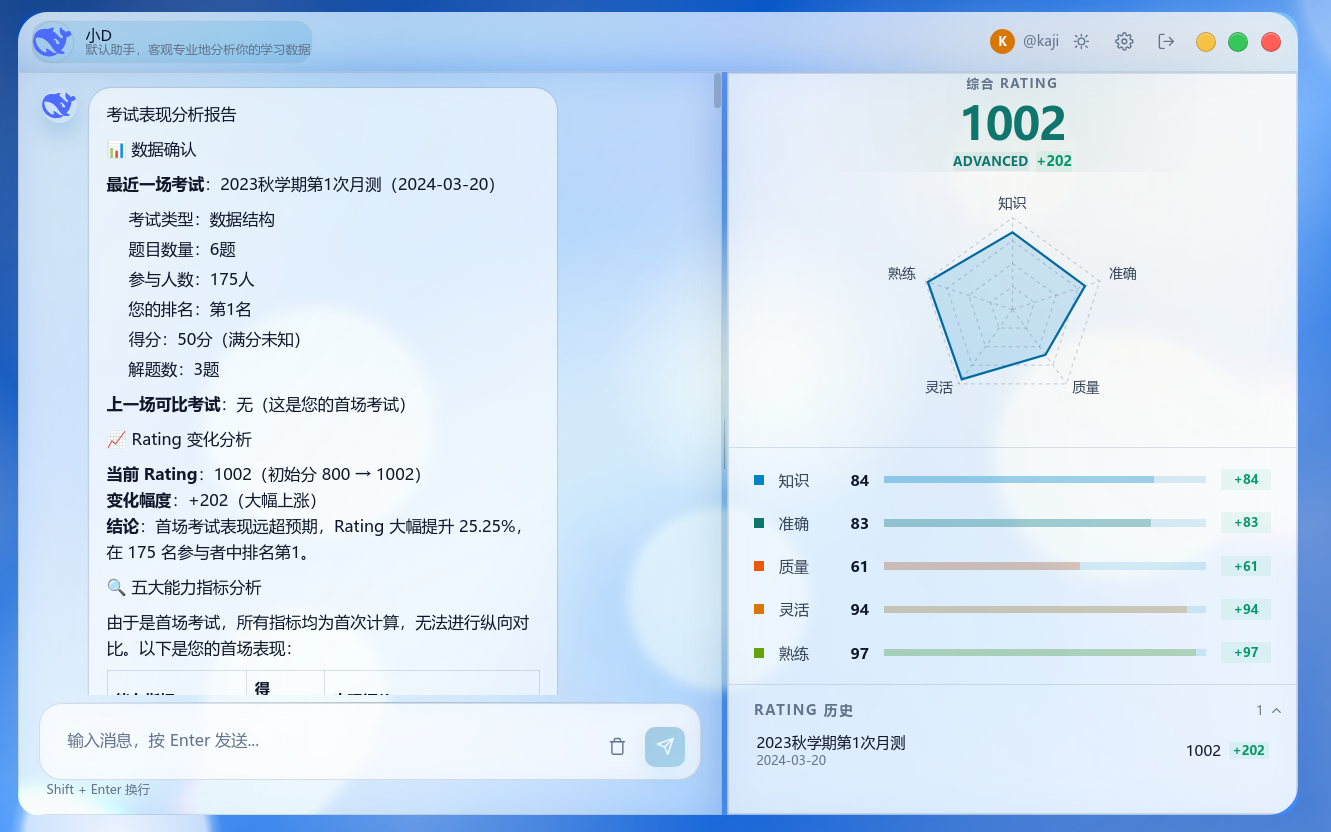
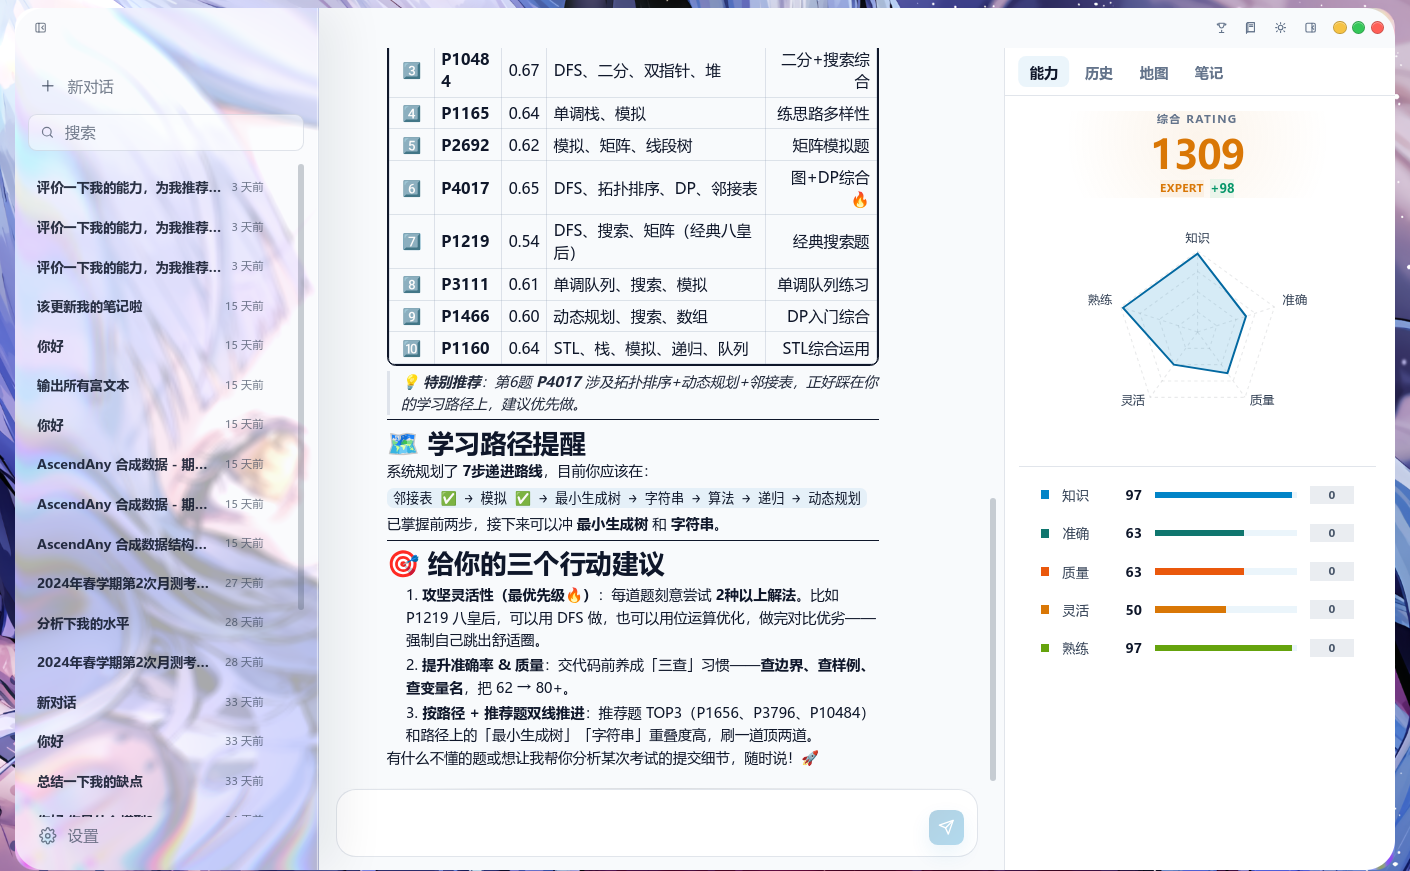
docs: add product README preview

diff --git a/README.product-preview.md b/README.product-preview.md
@@ -1,0 +1,111 @@
+# AscendAny
+
+<p align="center">
+  <img src="image/LOGO_SHRIND.png" alt="AscendAny Logo" width="96" />
+</p>
+
+<p align="center">
+  <strong>学生能力分析平台</strong>
+</p>
+
+<p align="center">
+  把程序设计考试数据转化为可解释的成长洞察，帮助学生看清近期表现，也帮助教师快速定位教学关注点。
+</p>
+
+![AscendAny 主界面](image/主界面.png)
+
+## 项目简介
+
+AscendAny 面向程序设计课程、训练营和班级考试场景。平台持续接收考试数据，自动形成学生画像，并通过 AI 助手解释近期表现、能力变化和训练重点。
+
+它关注三个核心问题：
+
+- 学生最近一场考试表现如何，排名、得分、解题数和历史变化是否清晰。
+- 五个能力维度如何变化，强项和短板能否一眼看出。
+- 下一阶段训练应该优先补什么，建议能否直接用于复盘和学习。
+
+## 核心能力
+
+### 增量考试导入
+
+每个考试目录都可以作为一次独立考试导入。平台会识别新增考试和新增快照，保留历史数据，并避免重复导入同一批记录。
+
+### 五维能力画像
+
+平台将考试表现拆解为五个维度：
+
+| 维度 | 含义 |
+| --- | --- |
+| 知识 | 反映知识点掌握程度，结合通过率和得分表现。 |
+| 准确 | 关注 AC 前提交次数，衡量解题稳定性和试错成本。 |
+| 质量 | 结合运行时表现等数据，描述解法质量。 |
+| 灵活 | 观察切题节奏和卡题时长，反映临场策略调整能力。 |
+| 熟练 | 关注解题速度和完成节奏，呈现训练熟练度。 |
+
+### Rating 追踪
+
+每场考试都会更新综合 rating，并记录本场变化。学生可以看到自己的成长趋势，教师也可以据此观察班级整体变化。
+
+### AI 智能解读
+
+AI 助手可以结合考试记录、能力指标和 rating 历史，生成近期表现分析、短板解释、题目推荐和训练建议。学生可以继续追问某次考试、某个指标或下一步学习计划。
+
+## 界面预览
+
+### 登录与账号绑定
+
+注册后绑定学号和平台昵称，系统会将账号与考试数据关联，进入个人学习工作台。
+
+![登录界面](image/登录界面.png)
+
+### 学习工作台
+
+左侧保留历史对话和入口，中间展示 AI 分析内容、题目推荐与学习路径提醒，右侧集中呈现能力、历史、地图和笔记等学习面板。
+
+![主界面总览](image/主界面.png)
+
+### 能力面板
+
+能力面板展示综合 rating、五维雷达图和各项能力分。学生可以快速判断当前强项、短板和最近一次考试带来的变化。
+
+![能力面板](image/能力面板.png)
+
+### AI 角色切换
+
+平台支持切换 AI 助教角色，也支持本地自定义角色，用不同语气和分析风格陪伴复盘。
+
+![角色切换](image/角色切换.png)
+
+## 从考试数据到学习建议
+
+1. 放入新的考试数据。
+2. 平台扫描新增考试和快照。
+3. 数据标准化后进入学生能力计算流程。
+4. 系统生成五维能力分、rating 变化和历史趋势。
+5. AI 助手基于最新数据给出可执行的学习建议。
+
+## 适合谁使用
+
+- 学生：查看近期考试表现、能力短板和下一步训练重点。
+- 教师与助教：观察班级学习状态，定位共性问题和个体差异。
+- 管理者：维护考试数据导入流程，跟踪导入进度和数据质量。
+
+## 平台组成
+
+- 学生端：桌面端、Web 访问和 Android 应用。
+- 管理端：导入控制台，用于发起数据导入和查看任务进度。
+- 后端服务：提供认证、学生画像、考试分析、AI 对话和导入任务接口。
+- 数据预处理：负责考试扫描、解析、导入和能力指标计算。
+
+## 项目入口
+
+| 模块 | 说明 |
+| --- | --- |
+| `apps/desktop/` | 学生桌面端与桌面端 Web 构建入口。 |
+| `apps/mobile/` | Android 应用入口。 |
+| `apps/import-console/` | 管理员导入控制台。 |
+| `apps/api/` | FastAPI 后端服务。 |
+| `preprocess/` | 考试数据预处理与增量导入。 |
+| `doc/` | 数据规范、能力模型、平台架构和部署文档。 |
+
+更多开发、部署和数据规范说明见 [文档索引](doc/文档索引.md)。
